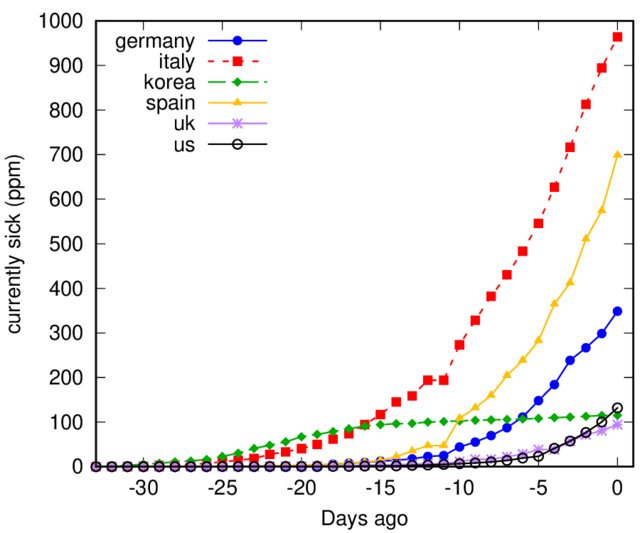
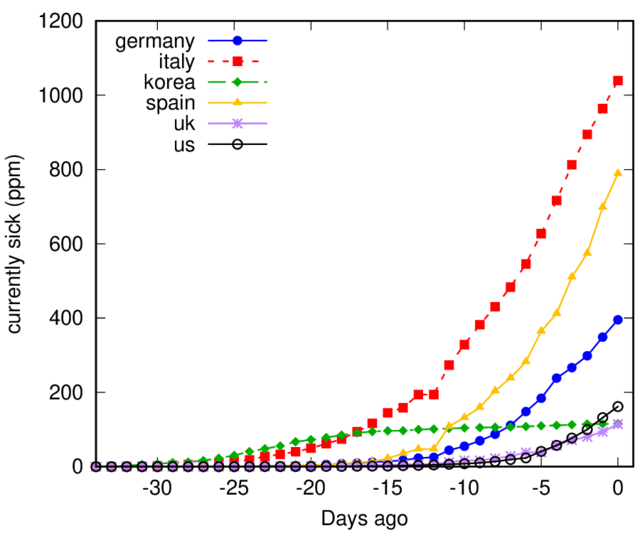
Wed 25 Mar 2020 08:55:47 AM CET

diff --git a/README.md b/README.md
@@ -7,7 +7,7 @@ Here is some regularly updated analysis of the COVID-19 outbreak.
 
 Data from: https://github.com/CSSEGISandData/COVID-19
 
- *UPDATED: Tue 24 Mar 2020 08:52:24 PM CET*
+ *UPDATED: Wed 25 Mar 2020 08:55:47 AM CET*
 
 ## The growth rate of infection
 
@@ -33,12 +33,12 @@ steadily.
 *Infection rates doubled in :*
 |Country | days until doubling of infections| 
 | --- | --- |
-|germany |5.44 days|
-|italy |9.05 days|
-|korea |32.78 days|
-|spain |4.93 days|
-|uk |4.82 days|
-|us |1.96 days|
+|germany |6.98 days|
+|italy |10.93 days|
+|korea |34.27 days|
+|spain |4.83 days|
+|uk |5.32 days|
+|us |2.11 days|
 
 
 
@@ -61,10 +61,10 @@ spreading rate and hence whether measures are working.
 *Max expected total infections:*
 |Country | total | in persons per million | 
 | --- | ---- | ---- |
-|germany| 43837 +/- 2493| 528.2 +/- 30.0|
-|italy| 115854 +/- 6312| 1930.9 +/- 105.2|
-|korea| 8502 +/- 68| 110.4 +/- 0.9|
-|spain| 70589 +/- 10070| 1501.9 +/- 214.2|
-|uk| 16954 +/- 4280| 51.7 +/- 13.0|
-|us| 143869 +/- 28813| 438.6 +/- 87.8|
+|germany| 47662 +/- 2243| 574.2 +/- 27.0|
+|italy| 113209 +/- 4505| 1886.8 +/- 75.1|
+|korea| 8556 +/- 71| 111.1 +/- 0.9|
+|spain| 76960 +/- 8364| 1637.5 +/- 178.0|
+|uk| 19990 +/- 4079| 60.9 +/- 12.4|
+|us| 115070 +/- 9616| 350.8 +/- 29.3|
 
